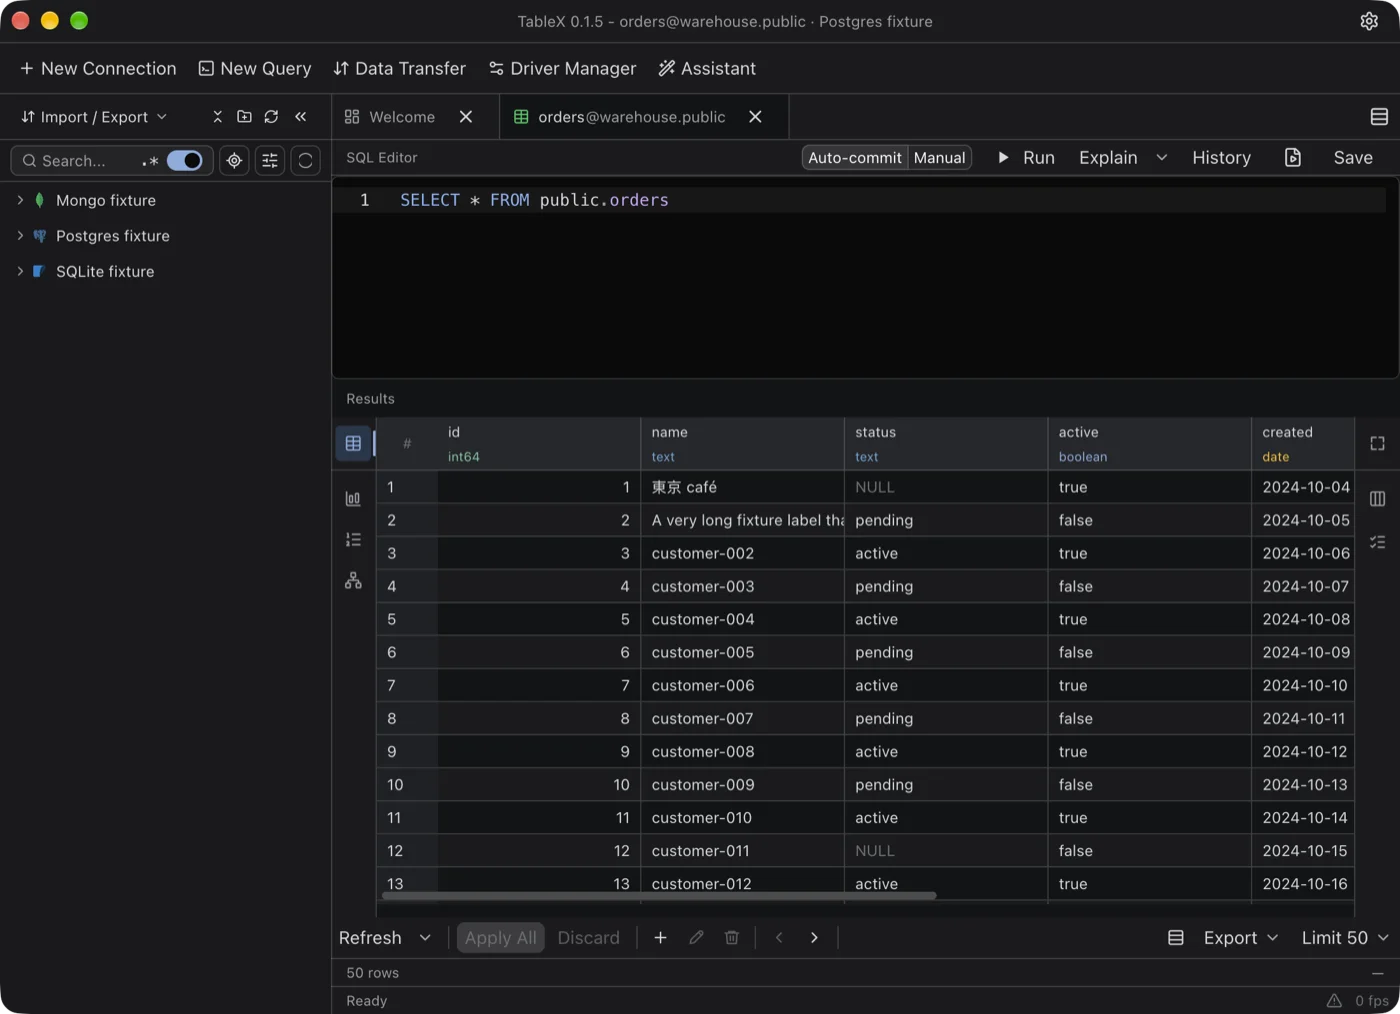
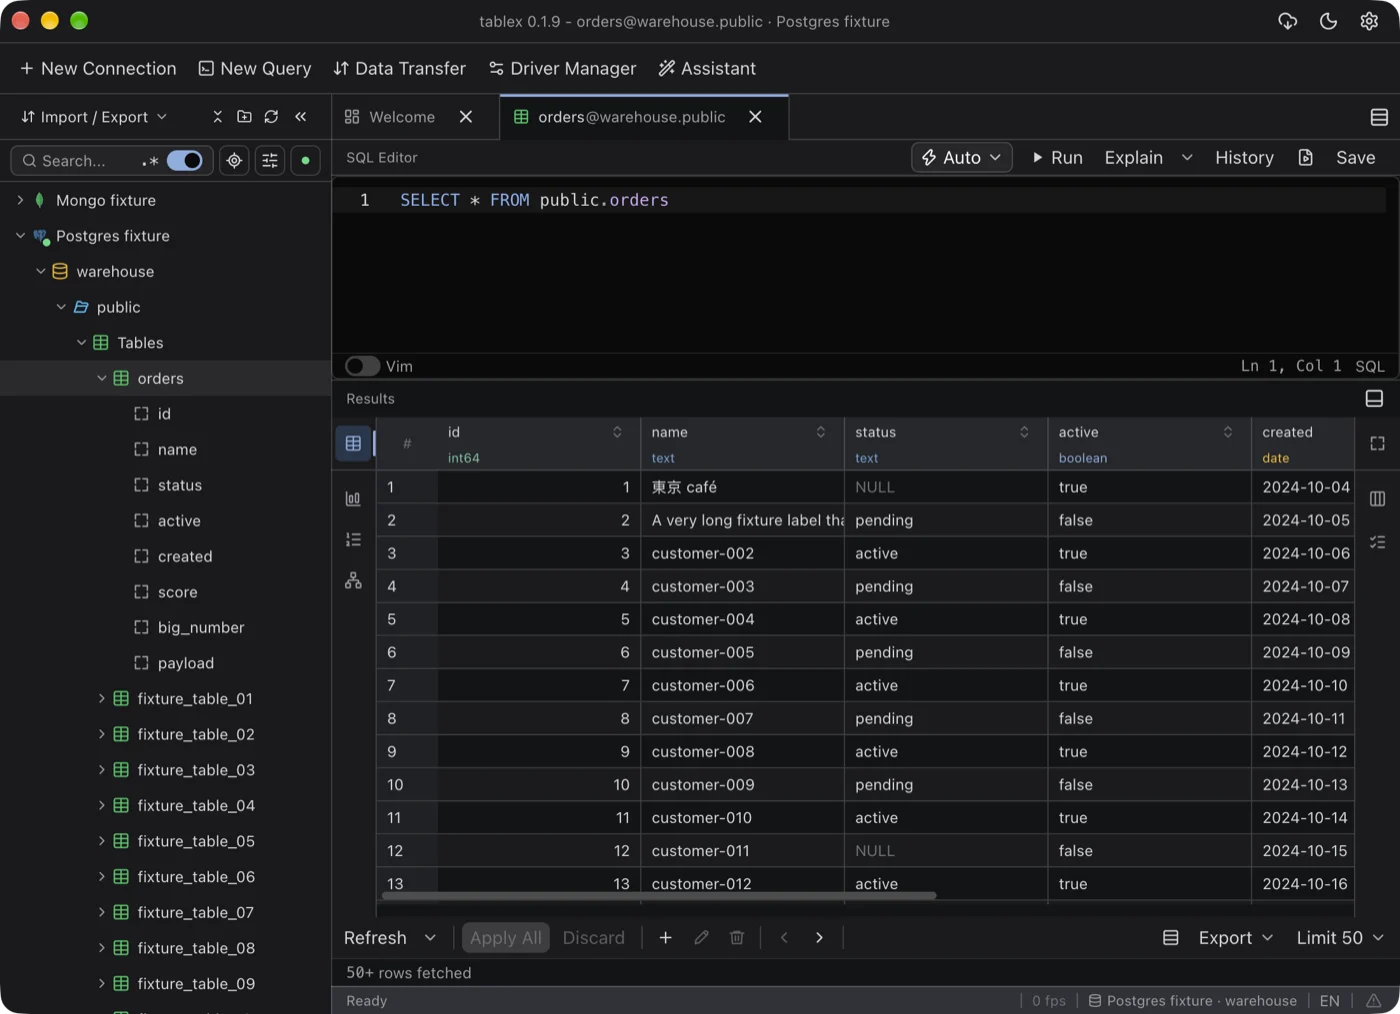
site: show the expanded connection tree in the screenshot

diff --git a/index.html b/index.html
@@ -129,7 +129,7 @@
 <main>
   <div class="brand"><img src="assets/apple-touch-icon.png" alt="" width="44" height="44">tablex</div>
   <div class="shot">
-    <img src="assets/app.webp" width="1400" height="1014" alt="tablex showing a PostgreSQL table in its result grid, with the connection tree on the left and the SQL editor above">
+    <img src="assets/app.webp" width="1400" height="1014" alt="tablex with the connection tree expanded down to the columns of a PostgreSQL table, the SQL editor and the result grid">
   </div>
   <h1><strong>tablex</strong> is a fast, native database client for macOS, written in Rust. PostgreSQL, MySQL, MariaDB, SQLite, MongoDB, Redis and ClickHouse in one app, with an AI assistant built in.</h1>
   <div class="actions">
